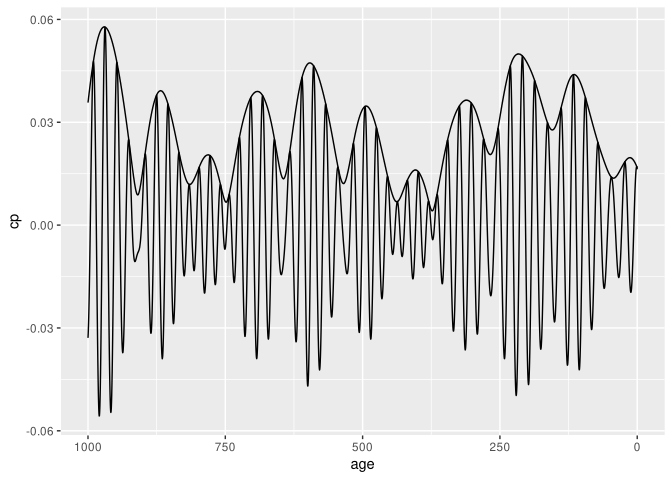
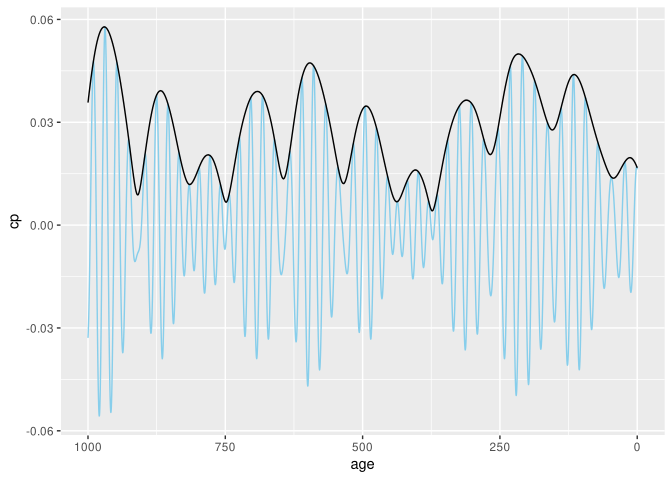
update github pages

Changed region(s): [[0.125, 0.125, 0.9688, 0.875]]

diff --git a/README.md b/README.md
@@ -11,7 +11,8 @@ status](https://www.r-pkg.org/badges/version/snvecR)](https://CRAN.R-project.org
 
 The goal of snvecR is to calculate precession and obliquity from an
 orbital solution (defaults to ZB18a) and assumed or reconstructed values
-for tidal dissipation (td) and dynamical ellipticity (ed).
+for tidal dissipation (T<sub>d<sub>) and dynamical ellipticity
+(E<sub>d<sub>).
 
 ## Installation
 
@@ -35,15 +36,15 @@ solution <- snvec()
 #> • `orbital_solution` = "ZB18a"
 #> • `tres` = 0.4 kyr
 #> • `tolerance` = 1e-07
-#> ℹ started at "2023-04-12 09:05:04"
+#> ℹ started at "2023-04-12 11:23:51"
 #> Final values:
 #> • s[1][2][3]: 0.404197400723194 -0.0537088738295803 0.91303387030935
 #> • s-error = |s|-1: -5.44863786333671e-05
 #> Final values:
 #> • obliquity: 0.413056573207875 rad
 #> • precession: -0.562236553023642 rad
-#> ℹ stopped at "2023-04-12 09:05:05"
-#> ℹ total duration: 1.19s
+#> ℹ stopped at "2023-04-12 11:23:52"
+#> ℹ total duration: 1.25s
 ```
 
 see `?snvec` for further documentation.
@@ -58,7 +59,7 @@ solution |>
   # the age scale goes from old to young
   scale_x_reverse() +
   # plot climatic precession
-  geom_line() +
+  geom_line(colour = "skyblue") +
   # add the (interpolated) eccentricity envelope
   geom_line(aes(y = eei))
 ```
